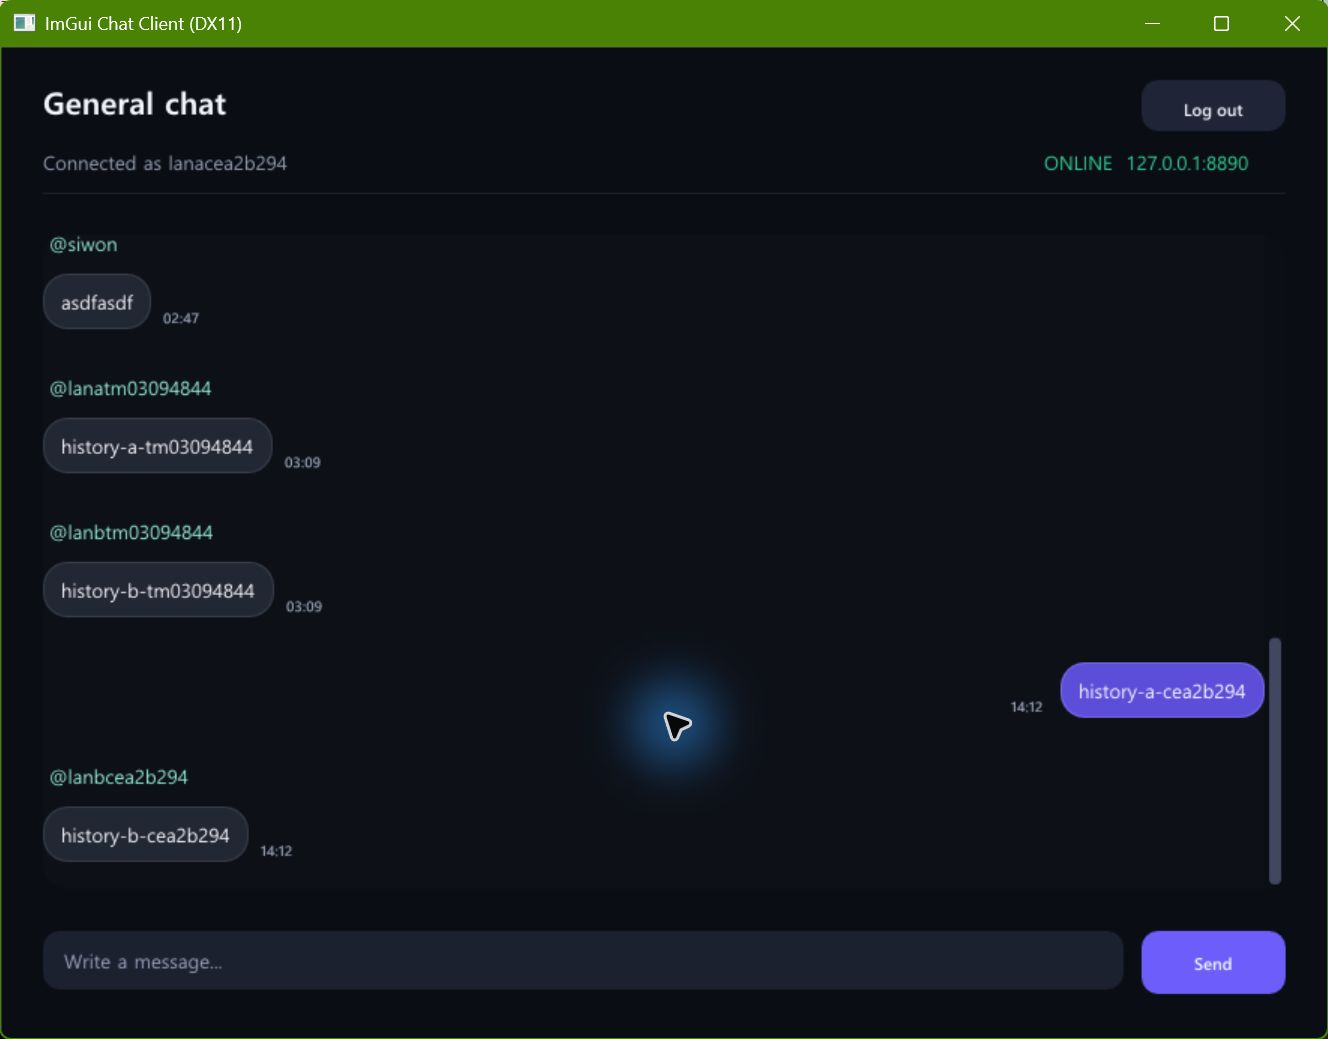
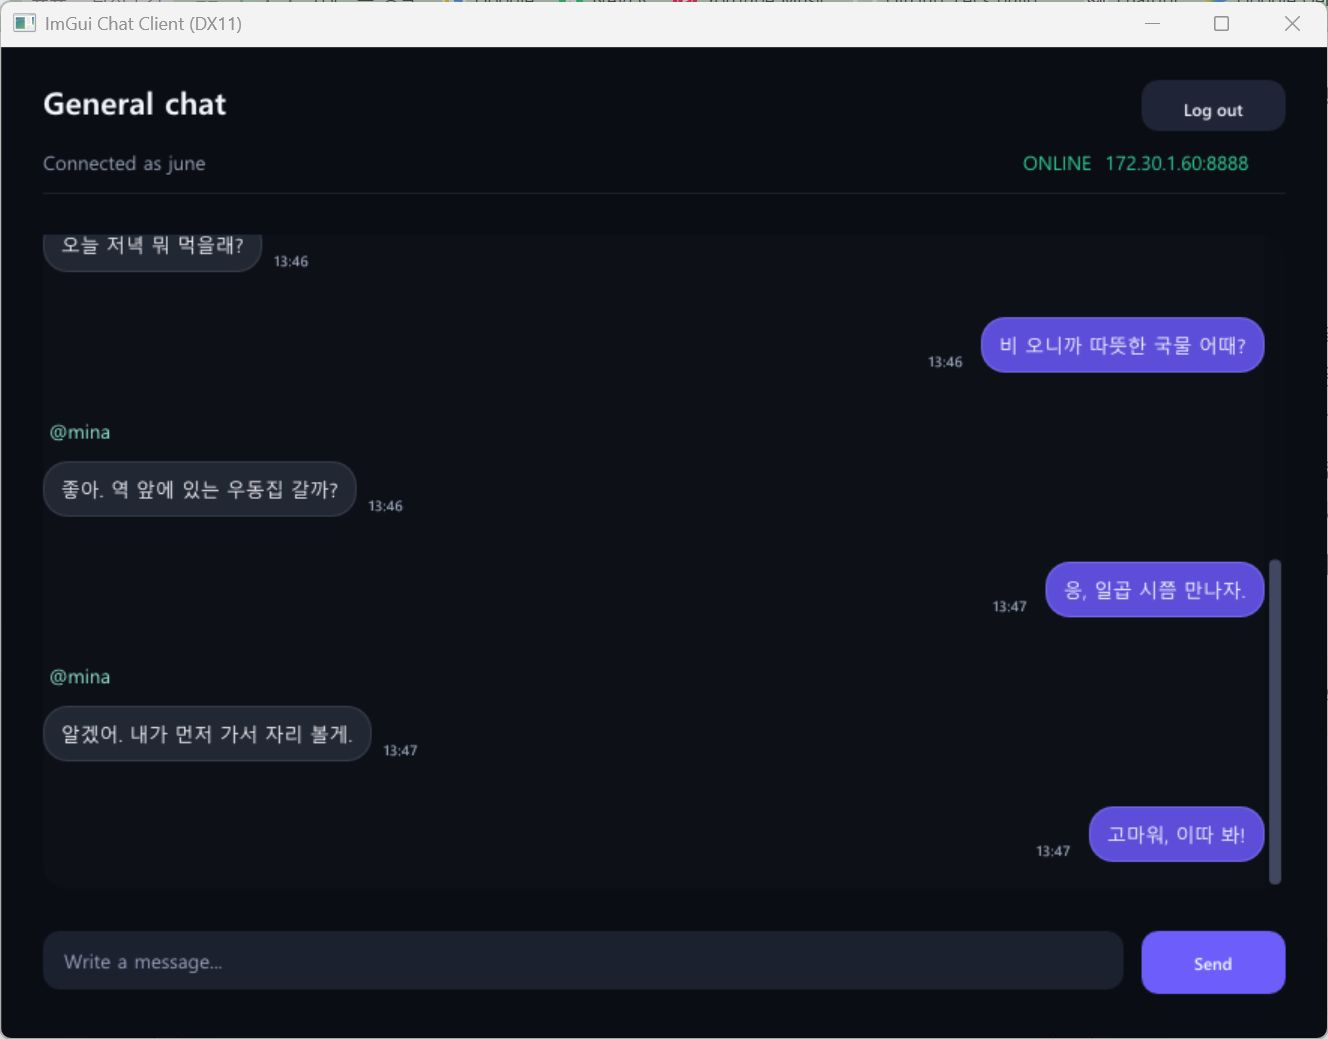
docs: 채팅 README와 실행 화면 정리

diff --git a/README.md b/README.md
@@ -1,90 +1,63 @@
 # Chatting Server Demo
 
-Windows IOCP 채팅 서버와 Direct3D 11 ImGui 클라이언트를 함께 구현한 개인 프로젝트입니다. 길이가 있는 binary frame, 비동기 socket 처리, MySQL 영속화와 채팅 timeline을 한 서비스 흐름으로 연결합니다.
+Windows 소켓과 IOCP를 공부하며 만든 실시간 채팅 서비스입니다. Direct3D 11 클라이언트에서 계정을 만들고 대화할 수 있으며, 메시지는 MySQL에 저장되어 다시 접속해도 최근 기록을 불러옵니다.
 
-![서버 재시작 뒤 양방향 메시지와 시간을 복원한 실제 채팅 화면](docs/assets/chat-timeline.png)
+`C++17` `Winsock2` `IOCP` `Direct3D 11` `Dear ImGui` `MySQL` `ODBC` `Docker Compose`
 
-위 화면은 Release client를 실제 MySQL과 IOCP server에 연결해 내 메시지와 상대 메시지, timestamp, history 복원을 확인한 결과입니다.
+![두 사용자가 실제 서버에서 대화하는 채팅 화면](docs/assets/chat-timeline.png)
 
-## 핵심 흐름
+서버를 Wi-Fi LAN 주소 `172.30.1.60:8888`에 열고 Release 클라이언트 두 개로 대화한 화면입니다. Docker 컨테이너에서도 같은 주소로 TCP 연결을 확인했습니다.
+
+## 주요 기능
+
+- 계정 생성과 로그인
+- 여러 클라이언트의 실시간 채팅
+- MySQL 메시지 저장과 최근 50개 복원
+- 날짜 구분선, 전송 시각, 내 메시지와 상대 메시지 구분
+
+## 구조
 
 ```mermaid
 flowchart LR
-    A[ImGui client] --> B[NetworkManager worker]
-    B <-->|protocol v2 frames| C[IOCP completion port]
-    C --> D[Session]
-    D --> E[DatabaseExecutor]
-    E --> F[IChatService]
-    F --> G[DatabaseChatService]
-    G --> H[(MySQL 8.4)]
-    C --> I[authenticated sessions]
-    I --> B
+    UI[ImGui 채팅 화면] --> NM[NetworkManager]
+    NM <-->|TCP 프레임| IOCP[IOCP 서버]
+    IOCP --> S[Session]
+    S --> DBW[DB 작업 큐]
+    DBW --> DB[(MySQL)]
+    DBW --> ACTIVE[로그인한 Session]
+    ACTIVE -->|ChatDelivered| IOCP
 ```
 
-클라이언트 UI는 socket을 직접 다루지 않습니다. `NetworkManager`가 연결, frame 송수신과 재연결을 맡고 UI에는 bounded event queue만 전달합니다. 서버는 접속마다 thread를 만들지 않고 completion port의 worker가 Accept, Receive, Send 완료를 처리합니다.
+클라이언트 화면은 소켓을 직접 다루지 않습니다. `NetworkManager`가 연결과 송수신을 맡고, 서버는 IOCP로 여러 연결의 완료 이벤트를 처리합니다. DB 조회와 저장은 별도 작업 큐에서 순서대로 실행합니다.
 
-클래스 소유 관계, packet 처리 순서와 shutdown 경계는 [아키텍처 문서](docs/architecture.md)에 정리했습니다.
+클래스 관계와 패킷 처리 순서는 [아키텍처 문서](docs/architecture.md)에서 더 자세히 볼 수 있습니다.
 
 ## 문제 해결 과정
 
-### recv 단위에 기대던 text packet을 frame으로 분리
+### TCP에서 메시지 경계 찾기
 
-초기 protocol은 packet type, sender, message를 공백으로 이어 보냈고, 수신부는 `std::istringstream`으로 다시 나눴습니다. TCP에는 message 경계가 없지만 초기 수신부는 한 번의 `recv`를 한 packet으로 처리했습니다.
+처음에는 `recv` 한 번에 메시지 하나가 온다고 생각했습니다. 하지만 TCP는 긴 메시지를 여러 번에 나눠 보내기도 하고, 짧은 메시지 여러 개를 한 번에 전달하기도 했습니다. 이 상태에서는 채팅이 잘리거나 서로 붙을 수 있었습니다.
 
-하나의 message가 두 번의 수신으로 나뉘면 어느 지점까지 보관할지, 두 message가 함께 오면 어디서 나눌지가 정해지지 않았습니다. 채팅 본문은 공백 뒤 `getline`으로 복원했지만, 이것만으로 split과 coalesced frame을 구별할 수는 없었습니다.
+각 메시지 앞에 12바이트 헤더를 붙여 버전, 종류, 요청 번호와 본문 길이를 보냈습니다. `StreamingDecoder`는 본문이 덜 왔으면 다음 데이터를 기다리고, 여러 메시지가 함께 왔으면 길이만큼 나눠 순서대로 꺼냅니다.
 
-이를 version, type, request ID, payload length를 담은 12바이트 header와 length-prefixed field로 바꿨습니다. `StreamingDecoder`는 미완성 frame을 buffer에 남기고, 완성된 frame이 여러 개면 도착 순서대로 꺼냅니다.
+### 네트워크 처리와 DB 작업 분리하기
 
-length가 64 KiB를 넘거나 version과 type이 맞지 않으면 decoder를 terminal error로 멈추게 했습니다. payload shape와 UTF-8도 함께 검사해 손상된 stream을 계속 해석하지 않습니다. protocol test는 byte 단위 split, coalesced frame, oversized length, malformed field와 invalid UTF-8을 확인합니다.
+초기 서버는 접속마다 스레드를 하나씩 만들었습니다. 연결이 늘수록 스레드도 함께 늘었고, DB 응답을 기다리는 동안 해당 스레드는 다른 일을 할 수 없었습니다. 서버를 종료할 때 남은 작업을 언제까지 기다려야 하는지도 불분명했습니다.
 
-### detached thread와 공유 DB를 실행 경계로 나누기
+네트워크 처리는 IOCP 작업 스레드가 맡고, DB 작업은 `DatabaseExecutor` 한 곳에서 처리하도록 나눴습니다. 각 `Session`은 보낼 메시지를 큐에 넣어 순서를 지키며, 전송 큐나 DB 작업 큐가 한도를 넘으면 해당 연결을 닫습니다.
 
-초기 server는 접속마다 `std::thread`를 만들고 detach했으며, client loop가 singleton database manager와 연결 목록을 함께 사용했습니다. 이 구조에서는 종료할 때 남은 작업을 기다릴 기준과 한 connection을 누가 쓰는지가 분명하지 않았습니다.
+## 숫자로 보는 동작 기준
 
-server는 completion port worker가 Accept, Receive, Send 완료를 회수하도록 바꿨습니다. `Session`은 receive를 하나만 pending으로 두고, send는 mutex로 보호한 queue와 in-flight frame으로 직렬화합니다. partial send 뒤에도 다음 frame이 앞서 나가지 않습니다.
+| 항목 | 기준 | 이유 |
+| --- | ---: | --- |
+| 프레임 헤더 | 12바이트 | TCP 데이터에서 메시지 경계를 찾습니다. |
+| 프레임 payload | 최대 64 KiB | 비정상적으로 큰 프레임을 미리 막습니다. |
+| 로그인 시 불러오는 기록 | 최근 50개 | 화면을 빠르게 열면서 직전 대화는 남깁니다. |
+| 동시 연결 검증 | 클라이언트 100개 | 전송 순서와 종료 처리를 함께 확인했습니다. |
 
-ODBC query는 IOCP worker가 직접 실행하지 않습니다. 단일 `DatabaseExecutor`가 하나의 service connection을 순서대로 사용하고, 기본 2,048개 queue가 차면 요청을 거절합니다. 느린 database가 network worker를 멈추거나 job을 무한히 쌓지 않게 한 선택입니다.
+## 실행 방법
 
-shutdown에서는 새 accept와 database 제출을 먼저 막고 session을 닫습니다. I/O operation의 생성과 retire 수가 모두 빠질 때까지 기다리며, executor도 accepting 상태와 실행 중 job 수를 분리해 종료를 확인합니다.
-
-Release 검증에서 IOCP test 14개 scenario와 persistence unit test 7개 묶음을 통과했습니다.
-
-## 구현한 기능
-
-### 길이가 있는 streaming protocol
-
-protocol version 2 frame은 version, message type, request ID와 payload length를 12바이트 header에 담습니다. payload는 최대 64 KiB이고 UTF-8과 field 개수를 검증합니다.
-
-`StreamingDecoder`는 TCP 수신이 frame 중간에서 끊기거나 여러 frame이 한 번에 도착해도 내부 buffer에서 완성된 message만 꺼냅니다. 한 번의 `recv`가 message 하나라는 가정은 제거했습니다.
-
-### IOCP와 backpressure
-
-서버는 기본 16개의 AcceptEx를 미리 걸고 completion port worker가 I/O 완료를 회수합니다. `Session`은 receive 하나만 진행되게 막고 send frame을 순서대로 직렬화합니다.
-
-session send byte, database job, client outbound command와 inbound event는 모두 상한이 있습니다. 상한을 넘으면 연결이나 요청을 조용히 쌓아두지 않고 overflow 상태로 종료하거나 화면에 알립니다.
-
-### 인증과 채팅 저장
-
-가입 비밀번호는 16바이트 임의 salt와 PBKDF2-HMAC-SHA256 600,000회 결과로 저장합니다. 로그인할 때 hash를 다시 계산해 비교하며 사용자를 찾지 못해도 dummy verify를 수행합니다.
-
-로그인 성공 뒤 최근 채팅 최대 50개를 오래된 순서로 보냅니다. 새 메시지는 MySQL에 저장된 뒤 인증된 session에 `ChatDelivered`로 전달되며 작성자, 본문과 UTC Unix millisecond를 포함합니다.
-
-### 채팅 timeline
-
-클라이언트는 수신한 UTC timestamp를 로컬 날짜와 `HH:mm`으로 바꿉니다. 날짜가 바뀌는 지점에는 separator를 넣고 내 메시지와 다른 사용자의 메시지를 서로 다른 bubble 정렬로 표시합니다.
-
-발신 메시지도 서버가 돌려준 `ChatDelivered`를 기준으로 화면에 추가하므로 저장 결과와 화면 기록이 같은 순서를 사용합니다.
-
-## 준비 사항
-
-- Windows x64
-- Visual Studio 2022 C++ 데스크톱 빌드 도구와 MSVC v143
-- Docker Desktop 또는 호환 Docker Engine과 Docker Compose
-- x64 MySQL Connector/ODBC Unicode 드라이버
-
-서버는 `SQLDriversW`로 설치된 MySQL Unicode driver를 찾습니다. 여러 버전이 있으면 가장 높은 버전을 선택하고, `CHAT_DB_DRIVER`가 있으면 해당 이름만 사용합니다.
-
-## 빌드와 실행
+Windows x64, Visual Studio 2022 C++ 빌드 도구, Docker Desktop, MySQL Connector/ODBC Unicode 드라이버가 필요합니다.
 
 ```powershell
 Set-ExecutionPolicy -Scope Process Bypass
@@ -92,95 +65,24 @@ Set-ExecutionPolicy -Scope Process Bypass
 .\scripts\Start-ChatService.ps1 -Port 8888
 ```
 
-처음 시작할 때 `.env.local`이 없으면 script가 강한 임의 MySQL 자격 증명을 만듭니다. 이 파일과 실행 PID는 Git과 Release ZIP에서 제외됩니다.
+서버가 준비되면 `Client\x64\Release\Client.exe`를 실행하고 기본 주소 `127.0.0.1:8888`에 접속합니다.
 
-MySQL은 `127.0.0.1:3307`에만 공개되고 데이터는 Docker named volume에 남습니다. 클라이언트는 저장소에서 `Client\x64\Release\Client.exe`, package에서 `bin\Client.exe`입니다.
-
-```powershell
-.\scripts\Stop-ChatService.ps1
-```
-
-중지 script는 기록된 PID가 실제 `Server.exe`인지 확인하고 정상 종료를 기다린 뒤 `docker compose down`을 실행합니다. named volume은 삭제하지 않습니다.
-
-## LAN 실행
-
-기본 bind 주소는 `127.0.0.1`입니다. 같은 LAN의 다른 PC에서 접속할 때만 호스트의 실제 IPv4를 지정합니다.
+다른 기기에서 접속할 때는 `-BindAddress`에 서버 PC의 LAN 주소를 넣고, 클라이언트에도 같은 주소를 입력합니다.
 
 ```powershell
 .\scripts\Start-ChatService.ps1 -BindAddress 192.168.0.10 -Port 8888
 ```
 
-`0.0.0.0`도 명시적으로 선택할 수 있지만 모든 IPv4 interface에서 수신합니다. script는 방화벽이나 router 설정을 바꾸지 않으므로 다른 장치에서 TCP 8888에 접근 가능한지는 사용자가 별도로 확인해야 합니다.
-
-## 직접 실행 환경 변수
-
-```text
-CHAT_DB_HOST=127.0.0.1
-CHAT_DB_PORT=3307
-CHAT_DB_NAME=chatdb
-CHAT_DB_USER=chatapp
-CHAT_DB_PASSWORD=...
-CHAT_DB_DRIVER=registered Unicode driver name
-CHAT_SERVER_PORT=8888
-CHAT_SERVER_BIND_ADDRESS=127.0.0.1
+```powershell
+.\scripts\Stop-ChatService.ps1
 ```
 
-명령줄의 `--port`와 `--bind-address`가 환경 변수보다 우선합니다. 서버는 연결 문자열과 비밀번호를 log에 출력하지 않고, 읽은 DB 비밀번호는 process environment에서 지웁니다.
+## 확인한 내용
 
-## 데이터 모델
+- 한 프레임을 여러 번에 나눠 받는 경우와 여러 프레임을 한 번에 받는 경우
+- 클라이언트 100개가 접속했을 때 메시지 전달과 서버 종료
+- 실제 MySQL 저장과 서버 재시작 뒤 대화 복원
+- Wi-Fi LAN 주소에서 Release 클라이언트 두 개의 채팅과 Docker 컨테이너의 TCP 접속
+- Debug와 Release 빌드, 패키지 생성 스크립트
 
-`Server\Database\schema.sql`은 MySQL 8.4, InnoDB와 utf8mb4 전용입니다.
-
-```mermaid
-erDiagram
-    users ||--o{ chat_messages : writes
-    users {
-        bigint id PK
-        varchar username UK
-        binary password_salt
-        binary password_hash
-        int password_iterations
-        timestamp created_at
-    }
-    chat_messages {
-        bigint id PK
-        bigint user_id FK
-        text body
-        timestamp created_at
-    }
-```
-
-## 테스트
-
-다음 x64 test project를 Debug와 Release에서 빌드하고 실행합니다.
-
-- `tests\ChatProtocolTests.vcxproj`
-- `tests\IocpServerTests.vcxproj`
-- `tests\ChatPersistenceUnitTests.vcxproj`
-
-protocol test에는 client network integration도 포함됩니다. script contract test는 package와 start 및 stop script가 secret, PID, bind와 종료 계약을 지키는지 검사합니다.
-
-MySQL 초기화, 재시작 뒤 기록 복원과 장애 복구 명령은 [검증 기록](docs/verification.md)에 정리했습니다.
-
-## Release ZIP
-
-`scripts\Package-Release.ps1`은 Server와 Client 실행 파일, lifecycle script, Compose 파일, schema, README와 `.env.example`만 `dist\ChatService-x64-Release.zip`에 넣습니다.
-
-ODBC installer, `.env.local`, PDB, ILK와 Docker volume 데이터는 package에 포함하지 않습니다.
-
-## 코드 지도
-
-| 경로 | 역할 |
-| --- | --- |
-| `Common/Protocol` | versioned frame codec와 streaming decoder |
-| `Client/Network` | worker thread, bounded queue, 연결과 송수신 |
-| `Client/UI/Application.*` | 로그인, 가입, 채팅 화면과 Direct3D frame loop |
-| `Client/UI/ClientPacketReducer.*` | server packet을 login과 timeline 상태로 축약 |
-| `Client/UI/ChatTimeline.*` | UTC timestamp의 날짜와 시각 표현 |
-| `Server/Core/Server.*` | IOCP, AcceptEx, worker와 session registry |
-| `Server/Network/Session.*` | 인증 상태, streaming decode와 serialized send |
-| `Server/Application` | 입력 검증, database job queue와 service interface |
-| `Server/Database` | Unicode ODBC driver 선택과 MySQL query |
-| `Server/Security` | PBKDF2 password hash와 verify |
-| `scripts/` | package, start, stop과 lifecycle 공통 함수 |
-| `tests/` | codec, IOCP, client network, persistence와 script contract |
+실행 명령과 테스트 결과는 [검증 기록](docs/verification.md)에 정리했습니다.

diff --git a/docs/verification.md b/docs/verification.md
@@ -64,7 +64,9 @@ Server와 Client Release 빌드가 완료됐고 `dist\ChatService-x64-Release.zi
 
 이 검증은 같은 PC의 loopback service입니다. 별도 LAN 장치, Windows 방화벽과 router 경계는 확인하지 않았습니다.
 
-write와 read가 끝난 test 계정으로 현재 Release client에 로그인해 `docs/assets/chat-timeline.png`를 캡처했습니다. 화면에는 server에서 복원한 두 계정의 message, 작성 시간과 좌우 bubble이 함께 나타납니다. 로그인과 가입 화면은 대표 자료로 사용하지 않았습니다.
+2026년 9월 4일에는 서버를 Wi-Fi LAN 주소 `172.30.1.60:8888`에 열었습니다. Release 클라이언트 두 개로 `mina`와 `june`에 다시 로그인하자 서버 재시작 전에 저장한 대화가 복원됐습니다.
+
+두 클라이언트로 일상 대화 여섯 건을 더 주고받았고, Docker 컨테이너에서도 같은 LAN 주소로 TCP 연결을 확인했습니다. `docs/assets/chat-timeline.png`에는 LAN 주소, 전송 시각과 좌우 말풍선이 함께 보입니다.
 
 ## 발견한 운영 경계
 
